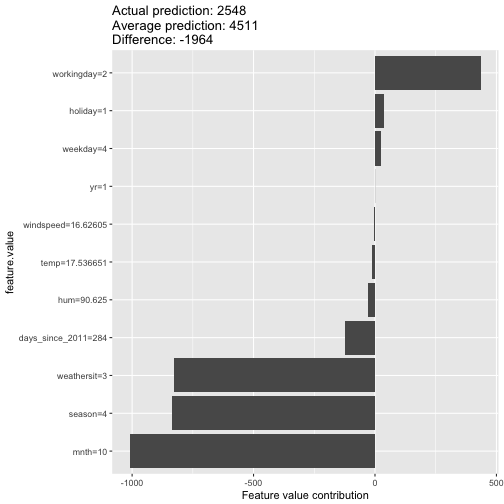
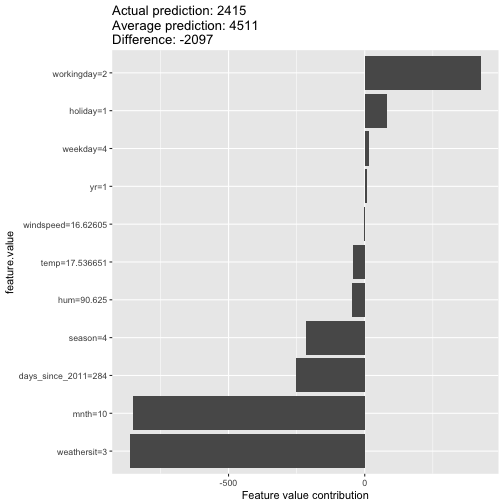
leanpub-tests

diff --git a/manuscript/05.6-agnostic-shapley.md b/manuscript/05.6-agnostic-shapley.md
@@ -15,7 +15,7 @@ You trained a machine learning model to predict apartment prices.
 For a certain apartment it predicts 300.000 € and you need to explain this prediction.
 The apartment has a size of 50 m^2^, is located on the 2nd floor, with a park nearby and cats are forbidden (see Figure \@ref(fig:shapley-instance)).
 
-![The predicted price for our apartment is 300.000€. It's a 50 square meter apartment on the second floor. There is a park nearby and cats are forbidden. Our goal is to explain how each of these features values contributed towards the predicted price of 300k€.](./images/big-picture.png)
+![The predicted price for our apartment is 300.000€. It's a 50 square meter apartment on the second floor. There is a park nearby and cats are forbidden. Our goal is to explain how each of these features values contributed towards the predicted price of 300k€.](images/shapley-instance.jpg)
 
 The average prediction for all apartments is 310.000€.
 How much did each feature value contribute to the prediction compared to the average prediction?
@@ -51,7 +51,7 @@ The Shapley value is the average marginal contribution of a feature value over a
 All clear now?
 Have a look at Figure \@ref(fig:shapley-instance-intervened) to learn how to compute the contribution of a feature value to a coalition.
 
-![](images/shapley-instance-intervention.jpg)
+![We assess the contribution of the 'cat-forbidden' feature value when added to a coalition of 'park-nearby', 'size-50m^2^'. We simulate that only 'park-nearby', 'cat-forbidden' and 'size-50m^2^' are in a coalition by randomly drawing the value for the floor feature. Then we predict the price of the apartment with this combination (301.000€). In a second step we remove 'cat-forbidden' from the coalition by replacing it with a random value of the cat allowed/forbidden feature from the randomly drawn apartment. In the example it was 'cat-allowed', but it could have been 'cat-forbidden' again. We predict the apartment price for the coalition of 'park-nearby' and 'size-50m^2^' (320.000€). The contribution of 'cat-forbidden' was 301.000€ - 320.000€ = -19.000€. This estimation depends on the sampled non-participating feature values and we get better estimates by repeating this procedure. This figure shows the computation of the marginal contribution for only one coalition. The Shapley value is the weighted average of marginal contributions over all coalitions.](images/shapley-instance-intervention.jpg)
 
 We repeat this computation for all possible coalitions.
 The computation time increases exponentially with the number of features, so we have to sample from all possible coalitions.
@@ -97,25 +97,25 @@ Figure \@ref(fig:shapley-cervical-plot) visualizes the Shapley values, that are 
 |STDs..Time.since.first.diagnosis |  1.00|
 |STDs..Time.since.last.diagnosis  |  1.00|
 
-![Feature value contributions for woman 326 in the cervical cancer dataset. With a prediction of 0.57, this woman's cancer probability is 0.54 above the average prediction of 0.03. The feature value that increased the probability the most is the number of diagnosed STDs. The feature contributions sum up to the difference of actual and average prediction (0.54).](images/shapley-cervical-plot-1.png)
+![Feature value contributions for woman 326 in the cervical cancer dataset. With a prediction of 0.53, this woman's cancer probability is 0.51 above the average prediction of 0.02. The feature value that increased the probability the most is the number of diagnosed STDs. The feature contributions sum up to the difference of actual and average prediction (0.51).](images/shapley-cervical-plot-1.png)
 
 |feature                          |        phi|
 |:--------------------------------|----------:|
-|Age                              |  0.0446667|
-|First.sexual.intercourse         |  0.0576667|
-|Hormonal.Contraceptives          |  0.0120000|
-|Hormonal.Contraceptives..years.  |  0.0246667|
-|IUD                              |  0.0003333|
-|IUD..years.                      |  0.0000000|
-|Num.of.pregnancies               |  0.0296667|
-|Number.of.sexual.partners        |  0.0763333|
-|STDs                             |  0.0766667|
-|STDs..Number.of.diagnosis        |  0.1416667|
-|STDs..Time.since.first.diagnosis |  0.0020000|
-|STDs..Time.since.last.diagnosis  |  0.0003333|
-|STDs..number.                    |  0.0436667|
-|Smokes                           | -0.0010000|
-|Smokes..years.                   | -0.0003333|
+|Age                              |  0.0480000|
+|First.sexual.intercourse         |  0.0626667|
+|Hormonal.Contraceptives          | -0.0023333|
+|Hormonal.Contraceptives..years.  |  0.0433333|
+|IUD                              |  0.0013333|
+|IUD..years.                      | -0.0020000|
+|Num.of.pregnancies               |  0.0496667|
+|Number.of.sexual.partners        |  0.0490000|
+|STDs                             |  0.0910000|
+|STDs..Number.of.diagnosis        |  0.0690000|
+|STDs..Time.since.first.diagnosis |  0.0030000|
+|STDs..Time.since.last.diagnosis  |  0.0030000|
+|STDs..number.                    |  0.1013333|
+|Smokes                           |  0.0030000|
+|Smokes..years.                   |  0.0010000|
 
 
 
@@ -142,22 +142,22 @@ Figure \@ref(fig:shapley-bike-plot) shows the explanations created for the  Rand
 |windspeed       |16.62605        |
 |days_since_2011 |284             |
 
-![Feature value contributions for instance 285. With a predicted 2548 rented bikes, this day is -1964 below the average prediction of 4511. The feature values that had the most negative effects were the weather situation, humidity and the time trend (years since 2011). The temperature on that day had a positive effect compared to the average prediction. The feature contributions sum up to the difference of actual and average prediction (-1964).](images/shapley-bike-plot-1.png)
+![Feature value contributions for instance 285. With a predicted 2415 rented bikes, this day is -2097 below the average prediction of 4511. The feature values that had the most negative effects were the weather situation, humidity and the time trend (years since 2011). The temperature on that day had a positive effect compared to the average prediction. The feature contributions sum up to the difference of actual and average prediction (-2097).](images/shapley-bike-plot-1.png)
 
 
-|feature         |      phi|
-|:---------------|--------:|
-|days_since_2011 |  -837.61|
-|holiday         |     0.67|
-|hum             | -1009.58|
-|mnth            |    38.73|
-|season          |    22.95|
-|temp            |   436.34|
-|weathersit      |  -829.03|
-|weekday         |   -10.36|
-|windspeed       |   -27.61|
-|workingday      |    -3.09|
-|yr              |  -121.59|
+|feature         |     phi|
+|:---------------|-------:|
+|days_since_2011 | -216.96|
+|holiday         |    7.96|
+|hum             | -850.89|
+|mnth            |   82.52|
+|season          |   16.92|
+|temp            |  426.69|
+|weathersit      | -862.61|
+|weekday         |  -42.23|
+|windspeed       |  -45.67|
+|workingday      |   -2.38|
+|yr              | -252.30|
 
 Be careful to interpret the Shapley value correctly:
 The Shapley value is the average contribution of a feature value towards the prediction in different coalitions.
